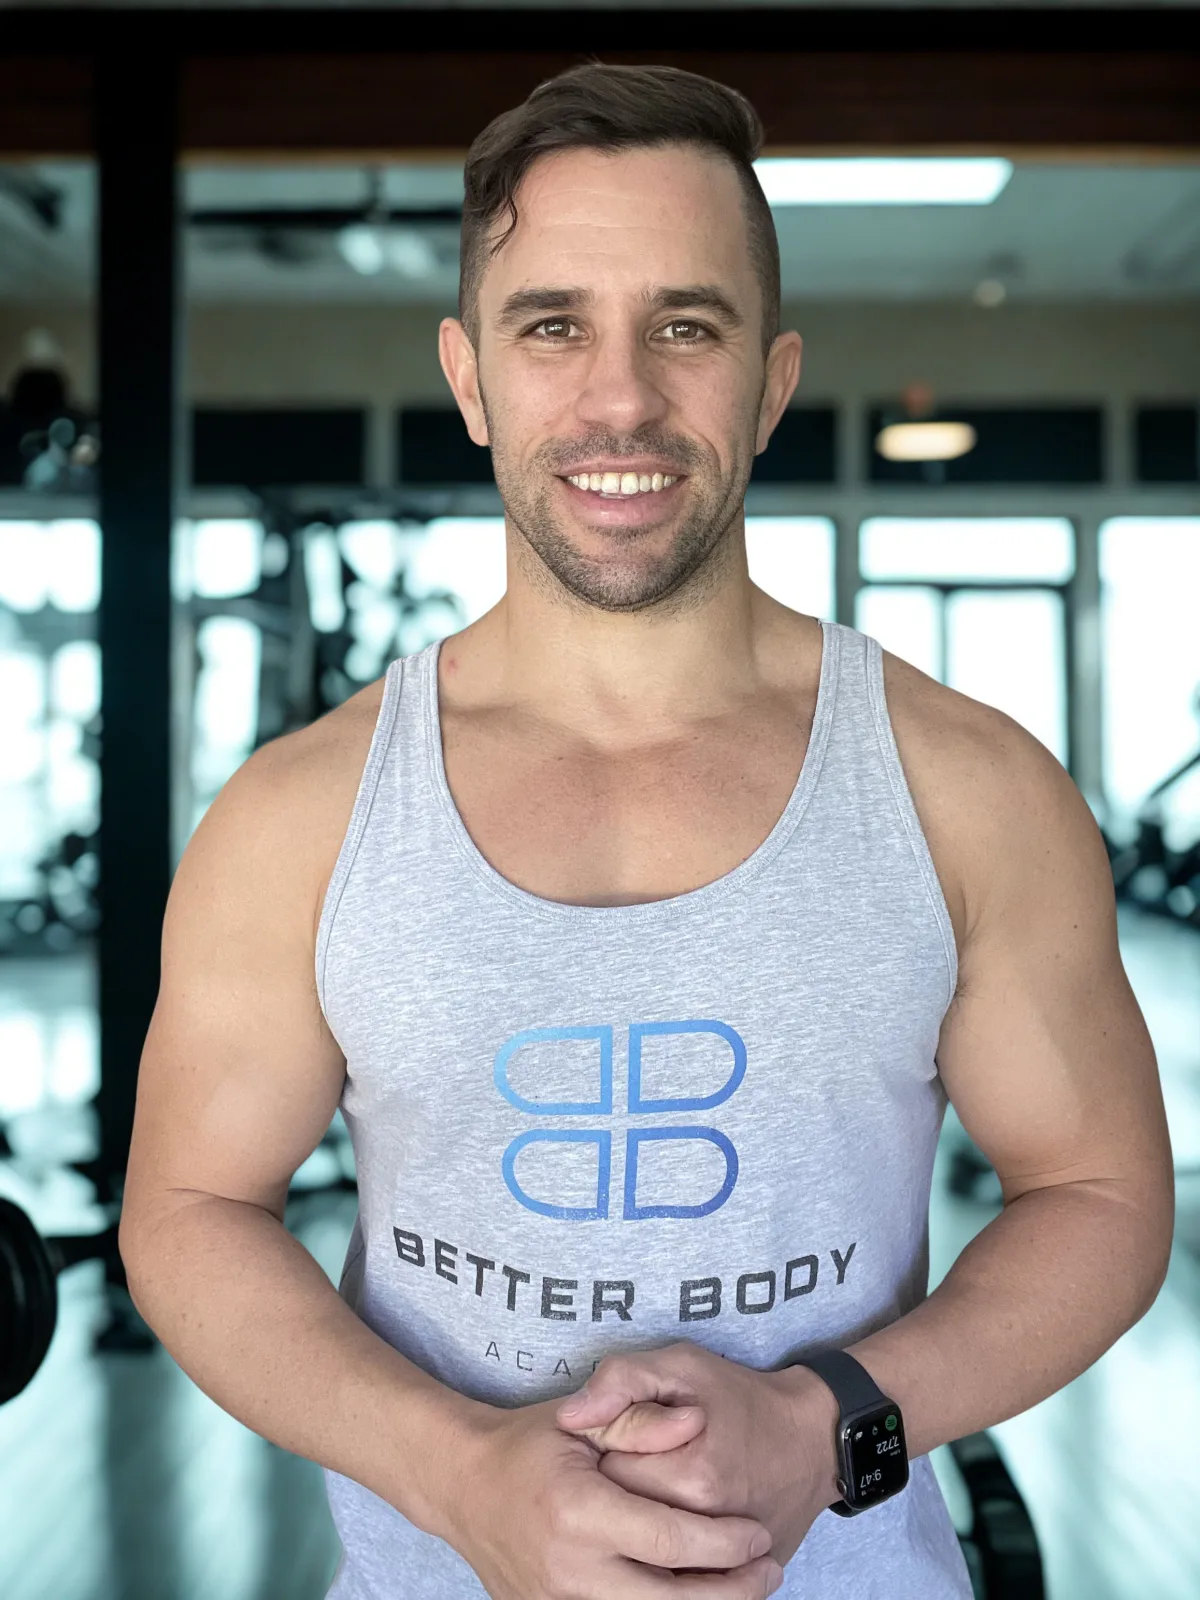
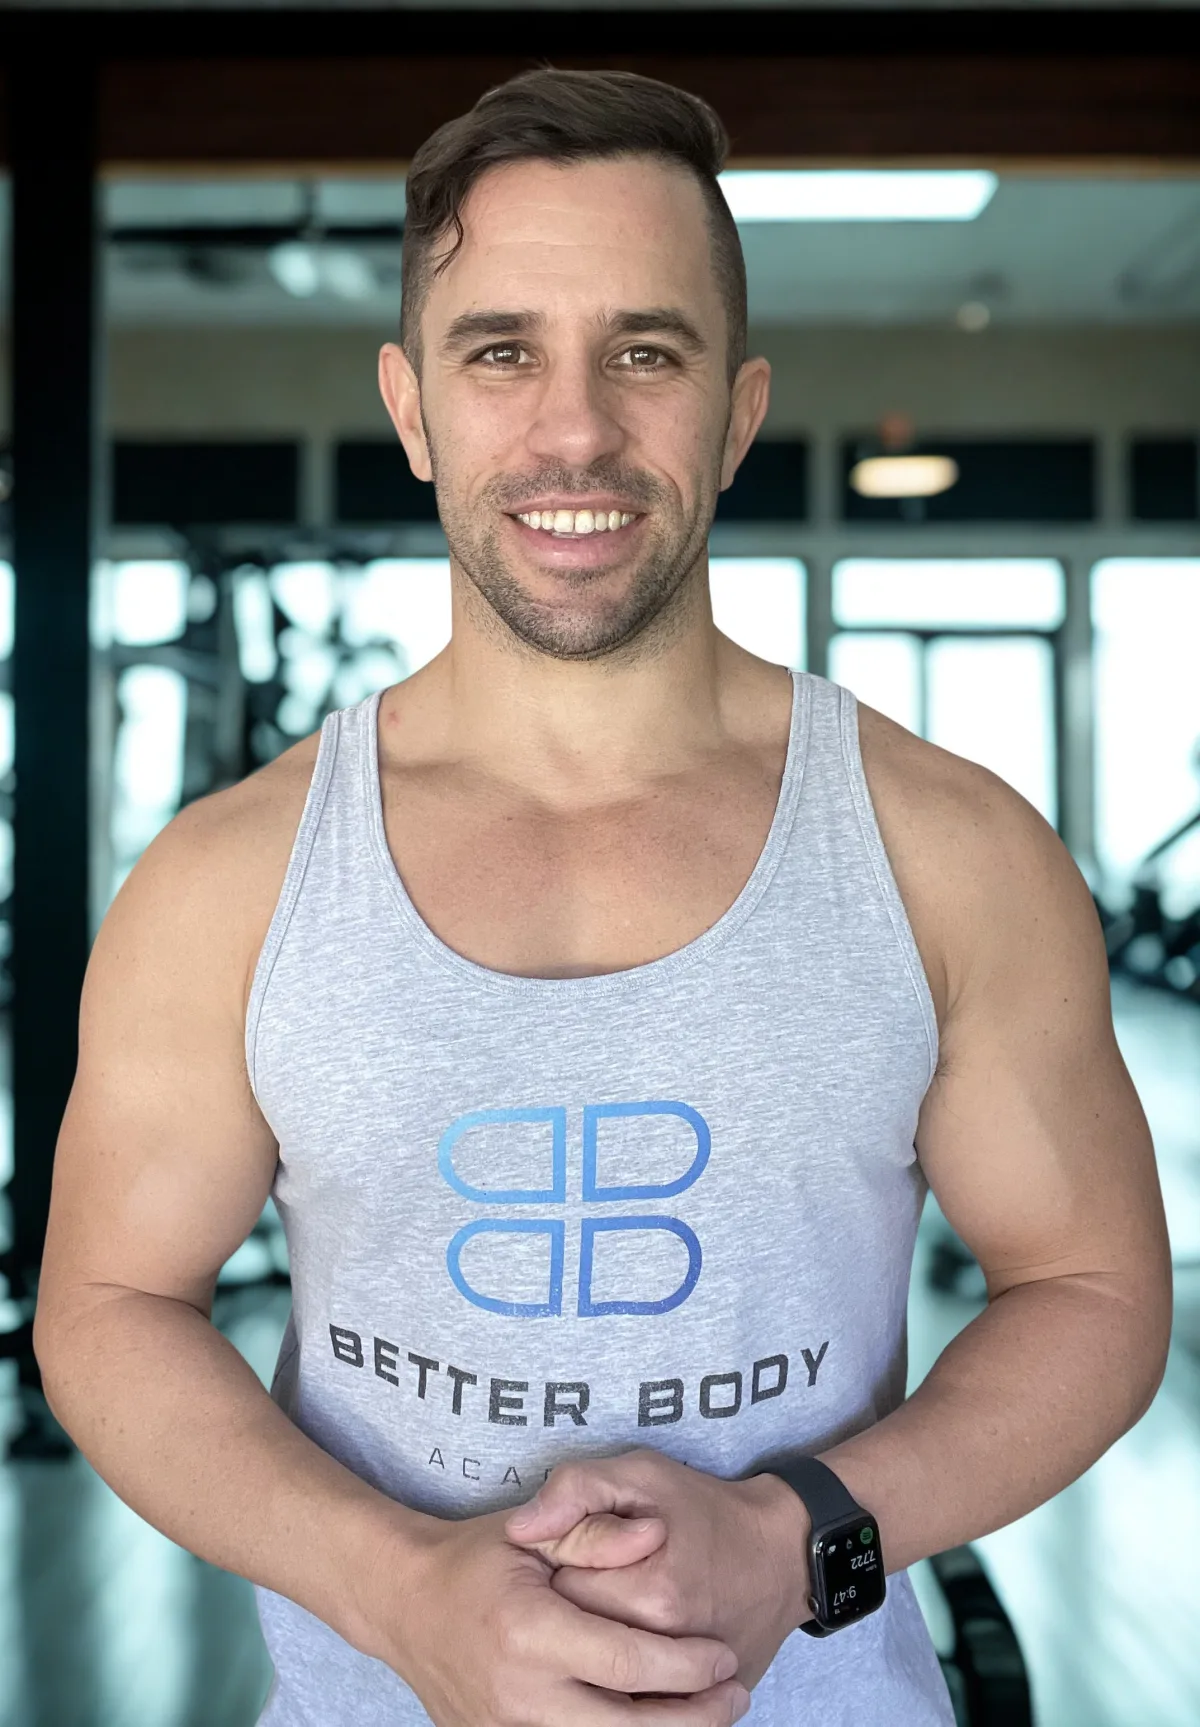
Recrop founder photo: center subject and preserve headroom
Crop the source to balance the left/right margins (subject was sitting
right of centre) at full height so all available headroom above the
head is kept. Match .founder-photo aspect-ratio to the new crop
(1200/1727) so object-fit: cover no longer trims the top.

Claude-Session: https://claude.ai/code/session_01RBrN9oLCzKVAxwRJUskp96

diff --git a/men.css b/men.css
@@ -633,8 +633,9 @@ button { font-family: inherit; cursor: pointer; }
 }
 .founder-photo {
   width: 100%;
-  aspect-ratio: 4 / 5;
+  aspect-ratio: 1200 / 1727;
   object-fit: cover;
+  object-position: center top;
   display: block;
 }
 .founder-copy .section-headline { margin-bottom: 24px; }